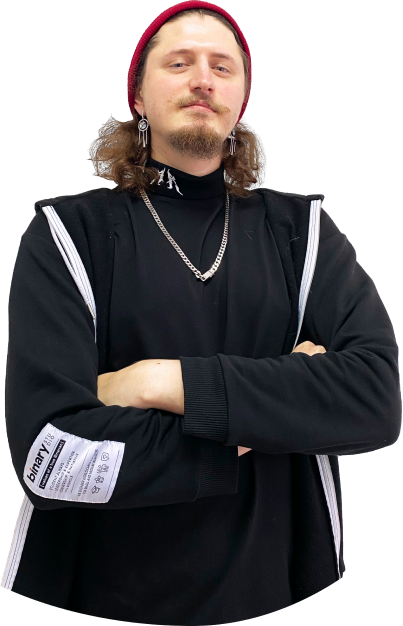
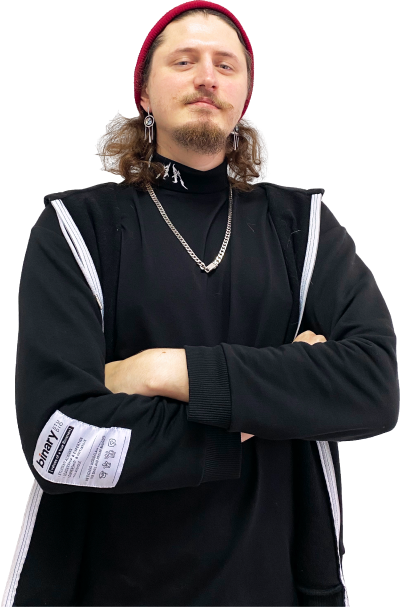
production: + intro image order

diff --git a/source/css/blocks/intro.css b/source/css/blocks/intro.css
@@ -19,21 +19,33 @@
   position: relative;
   width: 305px;
   margin: 0 auto;
-  padding: 0 0 0 25px;
+  overflow: hidden;
 }
 
-.intro__image-wrapper::before {
+.intro__image-wrapper::before,
+.intro__image-wrapper::after {
   content: "";
   position: absolute;
-  bottom: 0;
-  left: 0;
+  left: 50%;
   width: 100%;
-  height: 275px;
-  background-color: var(--color--primary);
-  mask: url("../img/intro-photo.mask.svg");
   mask-repeat: no-repeat;
   mask-size: contain;
   mask-position: 50% 50%;
+  transform: translateX(-50%);
+}
+
+.intro__image-wrapper::before {
+  bottom: 0;
+  height: 275px;
+  background-color: var(--color--primary);
+  mask-image: url("../img/intro-photo.mask.svg");
+}
+
+.intro__image-wrapper::after {
+  bottom: -0.5px;
+  height: 145px;
+  background-color: var(--color--secondary);
+  mask-image: url("../img/intro-photo-border.mask.svg");
 }
 
 .intro__image-wrapper img {
@@ -41,6 +53,7 @@
   max-width: 100%;
   margin: 0 auto;
   will-change: filter;
+  transform: translateX(15px);
   filter: drop-shadow(-8px 7px 0.3px var(--color--secondary));
 }
 
@@ -103,6 +116,11 @@
   .intro__image-wrapper {
     margin: 0 auto;
     padding: 0;
+  }
+
+  .intro__image-wrapper::before,
+  .intro__image-wrapper::after {
+    display: none;
   }
 
   .intro__header {

diff --git a/source/css/blocks/favorites.css b/source/css/blocks/favorites.css
@@ -61,7 +61,7 @@
   background-repeat: no-repeat;
   background-position: right 10px top 50%;
   background-size: 50px;
-  mask: url("../img/favorites.mask.svg");
+  mask-image: url("../img/favorites.mask.svg");
   mask-repeat: no-repeat;
   mask-size: contain;
   mask-position: 50% 0;

diff --git a/source/css/blocks/not-easter-egg.css b/source/css/blocks/not-easter-egg.css
@@ -37,3 +37,9 @@
 .not-easter-egg__button:focus-within {
   opacity: 1;
 }
+
+@media print {
+  .not-easter-egg {
+    display: none;
+  }
+}
